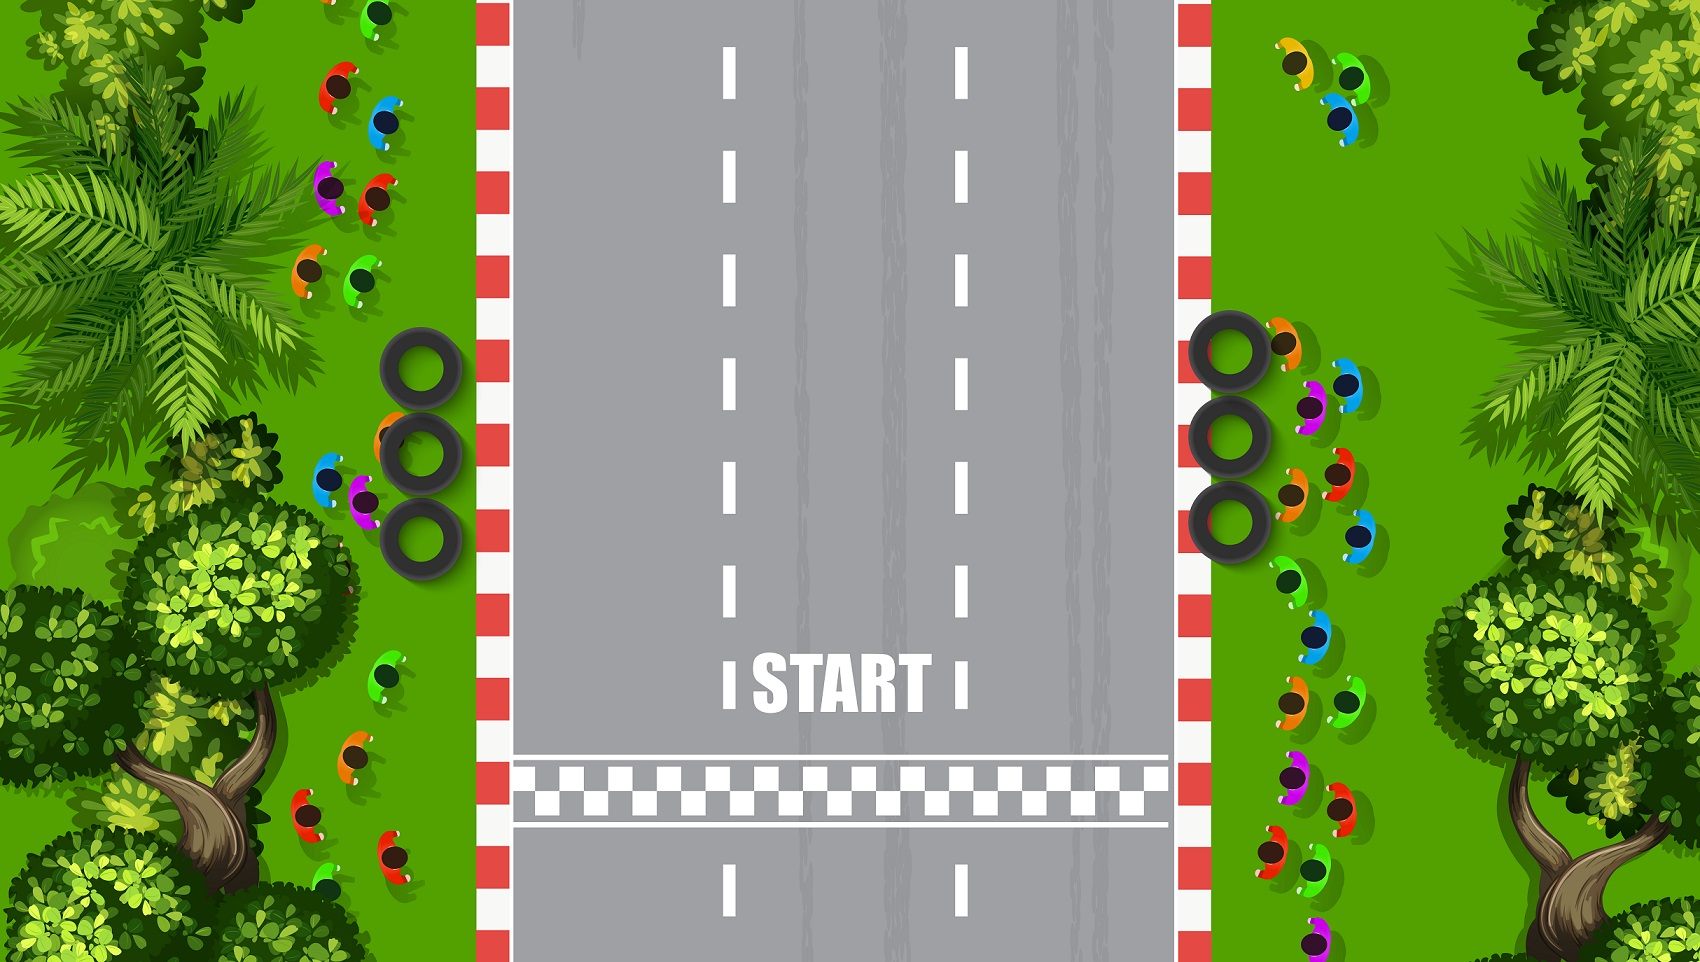
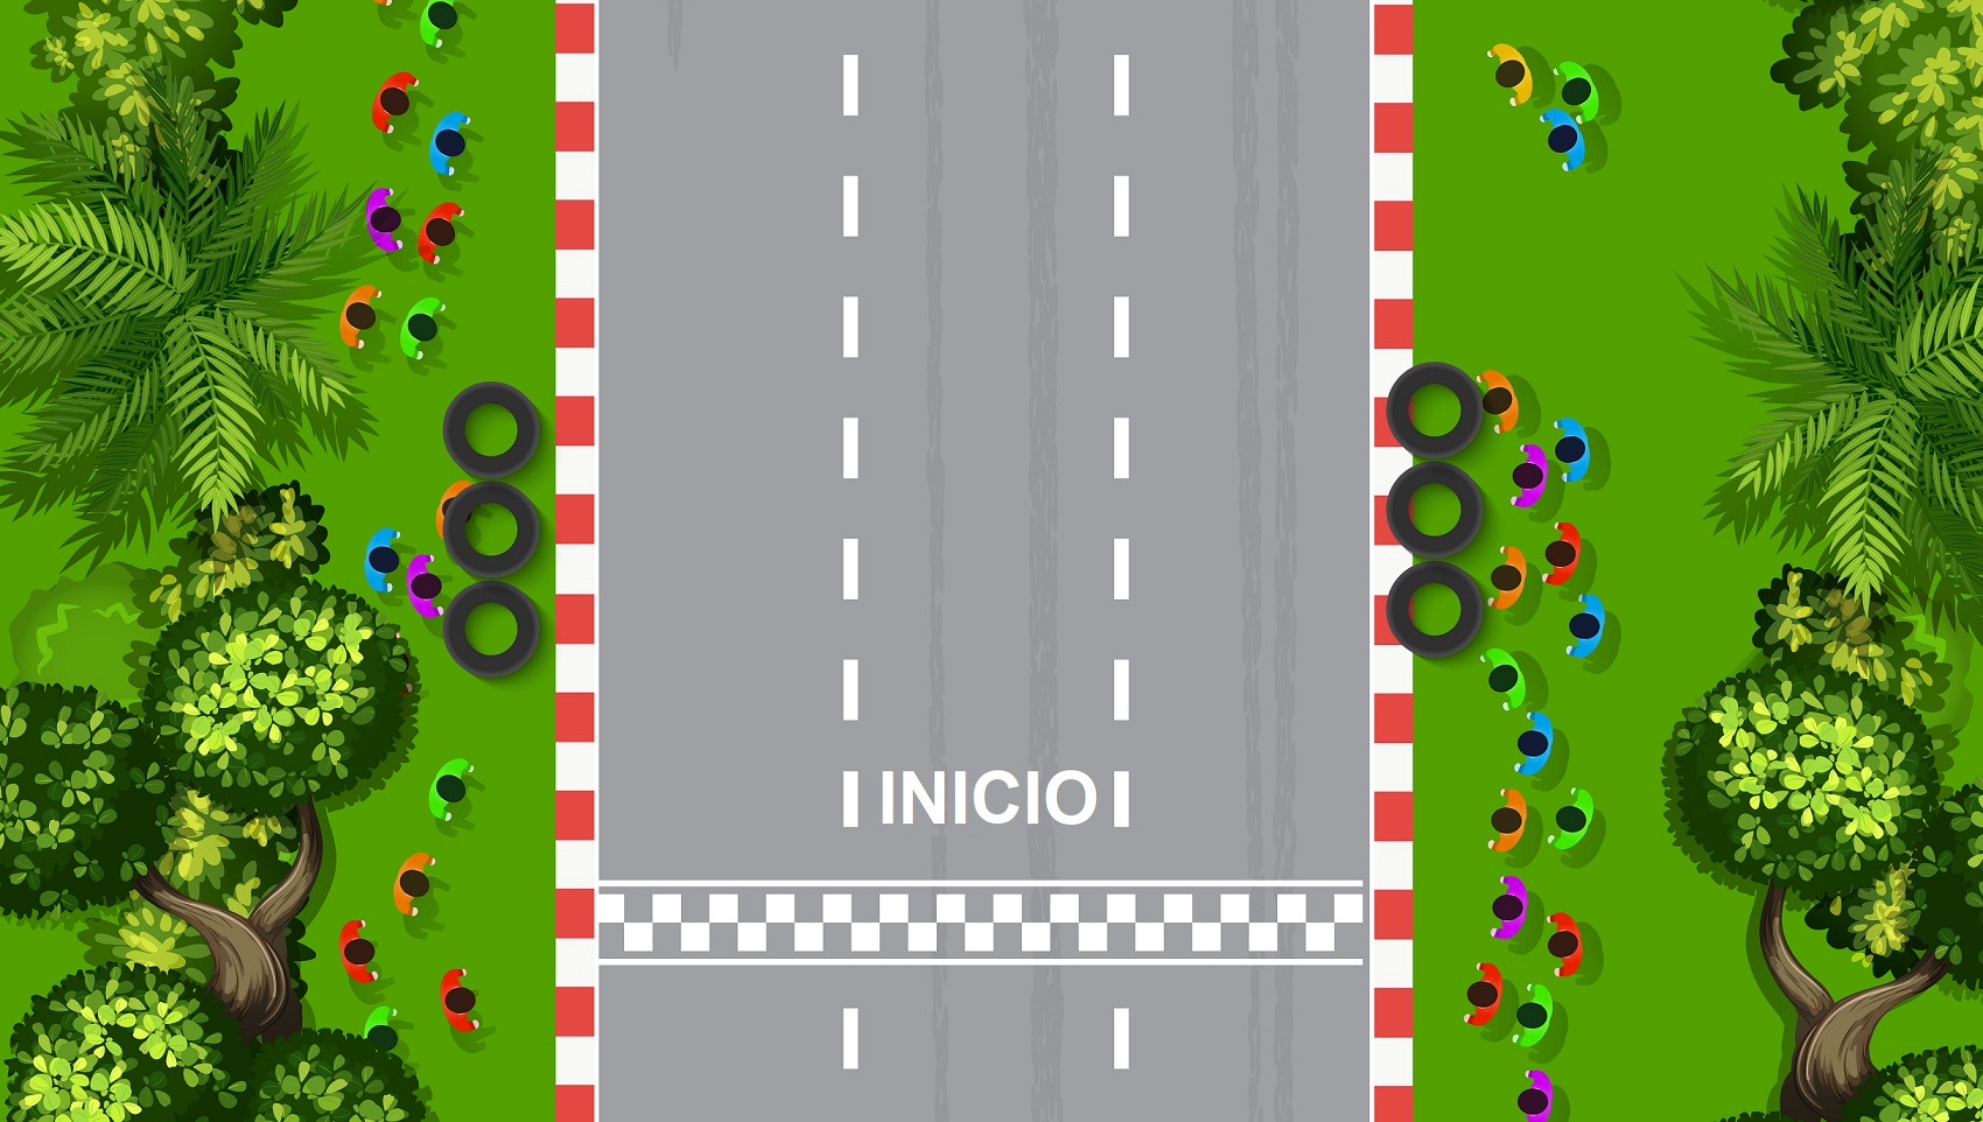
Traducción 1.0
Modificación de comentarios y elementos en pantalla. Sustitución de recursos visuales. Creación de README.md

diff --git a/js/Game.js b/js/Game.js
@@ -30,18 +30,18 @@ class Game {
 
     animals = [ animal1,  animal2];
 
-    // C38 TA
+    // C38 AM
     bush = new Group();
     grass = new Group();
 
-    // Adding fuel sprite in the game
+    // Agregando sprites de arbustos en el juego
     this.addSprites(bush, 4, bushImage, 0.02);
 
-    // Adding coin sprite in the game
+    // Agregando sprites de pasto en el juego
     this.addSprites(grass, 18, grassImage, 0.09);
   }
 
-  // C38 TA
+  // C38 AM
   addSprites(spriteGroup, numberOfSprites, spriteImage, scale) {
     for (var i = 0; i < numberOfSprites; i++) {
       var x, y;
@@ -71,20 +71,20 @@ class Game {
     if (allPlayers !== undefined) {
       image(track, 0, -height * 5, width, height * 6);
 
-      //index of the array
+      // Indice del arreglo
       var index = 0;
       for (var plr in allPlayers) {
-        //add 1 to the index for every loop
+        // Agrega 1 al índice en cada ciclo
         index = index + 1;
 
-        //use data form the database to display the cars in x and y direction
+        // Usa datos de la base de datos para mostrar los autos en dirección x e y
         var x = allPlayers[plr].positionX;
         var y = height - allPlayers[plr].positionY;
 
         animals[index - 1].position.x = x;
         animals[index - 1].position.y = y;
 
-        // C38  SA
+        // C38  AA
         if (index === player.index) {
           stroke(10);
           fill("red");
@@ -93,11 +93,11 @@ class Game {
           this.handleBush(index);
           this.handleGrass(index);
 
-          // Changing camera position in y direction
+          // Cambiar posición de la cámara en la dirección y
          }
       }
 
-      // handling keyboard events
+      // Manipulación de eventos de teclado
       if (keyIsDown(UP_ARROW)) {
         player.positionY += 10;
         player.update();
@@ -108,11 +108,11 @@ class Game {
   }
 
   handleBush(index) {
-    // Adding fuel
+    // Agregando arbustos
     animals[index - 1].overlap(bush, function(collector, collected) {
       player.bush = 185;
-      //collected is the sprite in the group collectibles that triggered
-      //the event
+      // "collected" es el sprite en el grupo de coleccionables que detona
+      // el evento
       collected.remove();
     });
   }

diff --git a/index.html b/index.html
@@ -2,7 +2,7 @@
 <html lang="en" dir="ltr">
   <head>
     <meta charset="utf-8" />
-    <title>Speed Racer</title>
+    <title>Carrera de la jungla</title>
     <!-- Lib -->
     <script src="./lib/p5.min.js"></script>
     <script src="./lib/p5.dom.min.js"></script>
@@ -11,26 +11,27 @@
 
     <link rel="stylesheet" href="style.css" />
 
-    <!-- The core Firebase JS SDK is always required and must be listed first -->
-<!-- The core Firebase JS SDK is always required and must be listed first -->
-<!-- The core Firebase JS SDK is always required and must be listed first -->
+<!-- El núcleo JS SDK de Firebase siempre es requerido y debe ser enlistado primero -->
+<!-- El núcleo JS SDK de Firebase siempre es requerido y debe ser enlistado primero -->
+<!-- El núcleo JS SDK de Firebase siempre es requerido y debe ser enlistado primero -->
 <script src="https://www.gstatic.com/firebasejs/8.9.1/firebase-app.js"></script>
 <script src="https://www.gstatic.com/firebasejs/8.9.1/firebase-database.js"></script>
 
-<!-- TODO: Add SDKs for Firebase products that you want to use
+<!-- TODO: Agregar SDKs para los productos Firebase que quieras usar
      https://firebase.google.com/docs/web/setup#available-libraries -->
 
 <script>
-  // Your web app's Firebase configuration
+  // Configuración de Firebase de tu aplicación web
   const firebaseConfig = {
-  apiKey: "AIzaSyCTvbO_ABy8O0VrF6adtPJMmPABiF38cAo",
-  authDomain: "race-jungle-d8a1a.firebaseapp.com",
-  projectId: "race-jungle-d8a1a",
-  storageBucket: "race-jungle-d8a1a.appspot.com",
-  messagingSenderId: "895110841348",
-  appId: "1:895110841348:web:fcce3cbb2a457de250e151"
+  apiKey: "AIzaSyAHwNNQS1-gntS4BRsArvbCgU6SbKQjgcA",
+  authDomain: "servidorlocal-9481a.firebaseapp.com",
+  databaseURL: "https://servidorlocal-9481a-default-rtdb.firebaseio.com",
+  projectId: "servidorlocal-9481a",
+  storageBucket: "servidorlocal-9481a.appspot.com",
+  messagingSenderId: "324625154622",
+  appId: "1:324625154622:web:ab41c5dc2dece53b24476f"
 };
-  // Initialize Firebase
+  // Inicializar Firebase
   firebase.initializeApp(firebaseConfig);
 </script>
 </script>

diff --git a/js/Form.js b/js/Form.js
@@ -1,9 +1,9 @@
 class Form {
   constructor() {
-    this.input = createInput("").attribute("placeholder", "Enter your name");
-    this.playButton = createButton("Play");
-    this.resetButton = createButton("Reset");
-    this.titleImg = createImg("./assets/title.png", "game title");
+    this.input = createInput("").attribute("placeholder", "Introduce tu nombre");
+    this.playButton = createButton("Jugar");
+    this.resetButton = createButton("Reiniciar");
+    this.titleImg = createImg("./assets/title.png", "título del juego");
     this.greeting = createElement("h2");
   }
 
@@ -36,15 +36,15 @@ class Form {
       this.input.hide();
       this.playButton.hide();
       var message = `
-      Hello ${this.input.value()}
-      </br>wait for another player to join...`;
+      Hola, ${this.input.value()}
+      </br>Espera a que se una otro jugador...`;
       this.greeting.html(message);
       playerCount += 1;
       player.name = this.input.value();
       player.index = playerCount;
-    player.addPlayer();//aa
+    player.addPlayer();//aaa
       player.updateCount(playerCount); // BP
-     player.getDistance(); //aa
+     player.getDistance(); //aaa
     });
 
     this.resetButton.mousePressed(() => {

diff --git a/js/Player.js b/js/Player.js
@@ -21,7 +21,7 @@ class Player {
       positionY: this.positionY,
     });
   }
-  //TA
+  // AM
   getDistance() {
     var playerDistanceRef = database.ref("players/player" + this.index);
     playerDistanceRef.on("value", data => {
@@ -51,7 +51,7 @@ class Player {
       players: 0
     });
   }
-  //SA
+  // AA
   update() {
     var playerIndex = "players/player" + this.index;
     database.ref(playerIndex).update({

diff --git a/README.md b/README.md
@@ -1,0 +1,5 @@
+# PROC40-1_4-plantilla-proyecto
+## Plantilla del proyecto para la clase 40 nivel PRO 1:4.
+Modificación por parte del alumno de un comentarios y cambio en la configuración de Firebase de la base de datos. 
+
+### Nombre en Inglés: Jungle-Racer-Template
